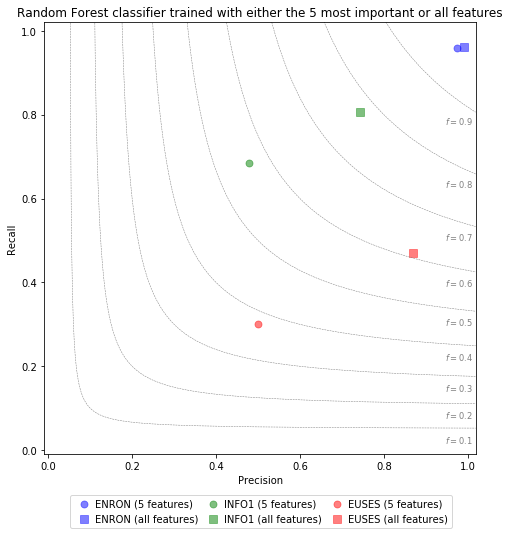
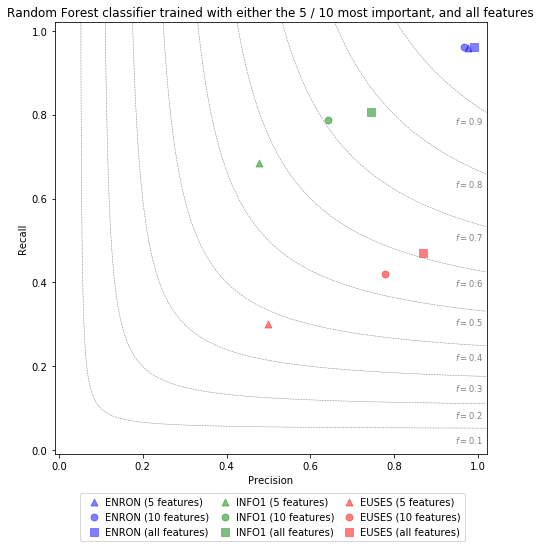
plot updates

diff --git a/_layouts/default.html b/_layouts/default.html
@@ -100,14 +100,19 @@
           <h3>  Precision / Recall / F1 plots </h3>
             <p>Visual comparison of average prediction results measured in precision/recall/F1-score </p>
             <p><img src="appendix/plots/transferLearning/oneSource.png" alt="transfer learning results of RF classifiers trained on one dataset" /></p>
-            <p><img src="appendix/plots/transferLearning/twoSources.png" alt="transfer learning results of RF classifiers trained on combinations of two datasets" /></p>
-            <p><img src="appendix/plots/transferLearning/threeSources.png" alt="transfer learning results of RF classifiers trained on a combination of three datasets" /></p>
+            <p><img src="appendix/plots/transferLearning/threeSourcesCV.png" alt="transfer learning results of RF classifiers trained on a combination of three datasets" /></p>
 
         <h2 id="plots_featureImportance">AD Study 3: Feature Importance for Random Forest classifiers</h2>
-          <p>Random Forest classifiers provide a ranking of features that are the most important for decisionmaking. We compared the results of RF classifiers that were trained using the 5 most important features for each dataset only, and compared it to previous results. </h3>
+          <p>Random Forest classifiers provide a ranking of features that are the most important for decisionmaking. We compared the results of RF classifiers that were trained using either the 5 or 10 most important features for each dataset only, and compared it to previous results. </h3>
           <h3>  Precision / Recall / F1 plots </h3>
             <p>Visual comparison of average prediction results measured in precision/recall/F1-score </h3>
             <p><img src="appendix/plots/limitedFeatures/comparision.png" alt="results of RF classifiers trained using only the 5 most important features" /></p>
+
+        <h2 id="plots_datasetCombination">Dataset Combination</h2>
+          <p>Prediction performance of a learned classifier highly depends on the qulity and consistency of the utilized dataset. In the main studies of our work, we used our available datasets (Enron Errors, Info1, Euses) in separation. In this study, we hence evaluate the combinability of those datasets by evaluating different combination using a trained Random Forest classifier. </p>
+          <h3>  Precision / Recall / F1 plots </h3>
+            <p>Visual comparison of average prediction results measured in precision/recall/F1-score </p>
+            <p><img src="appendix/plots/datasetCombination/comparision.png" alt="evaluation results of RF classifiers trained using combinations of the different datasets" /></p>
 
       <footer class="site-footer">
         {% if site.github.is_project_page %}
